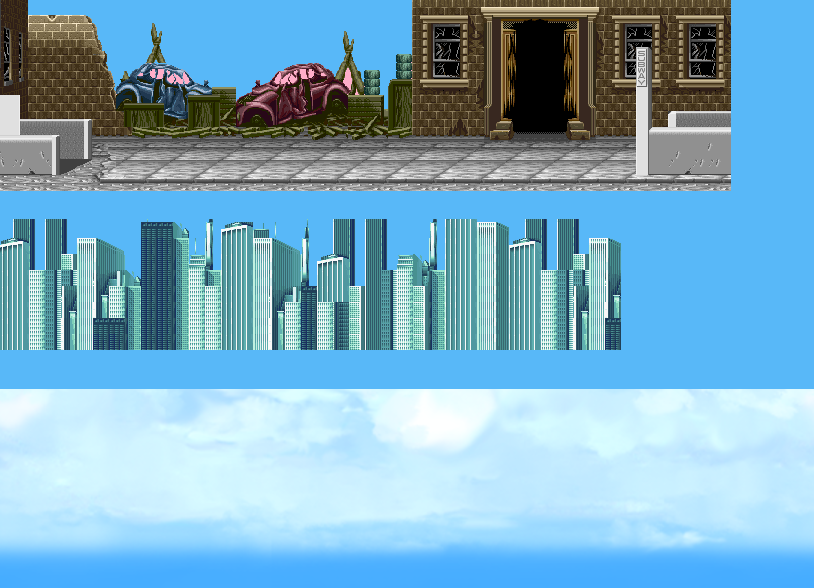
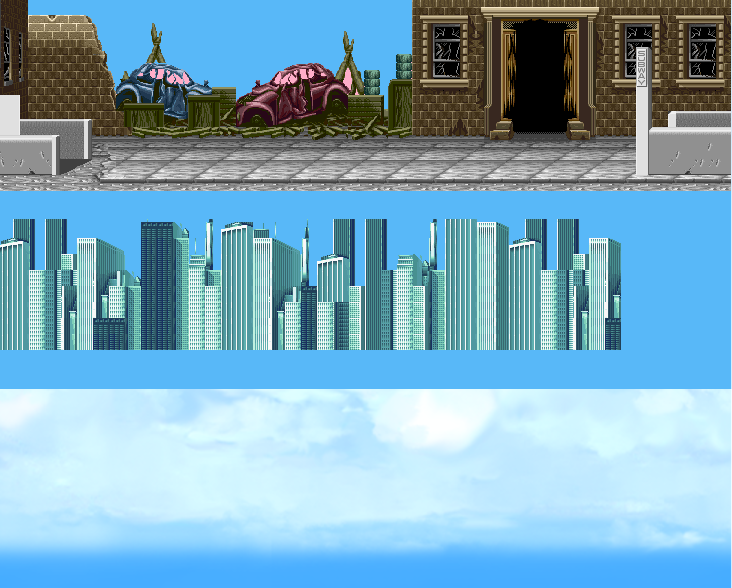
Se agrega nivel 2

diff --git a/niveles/Nivel.cpp b/niveles/Nivel.cpp
@@ -2,6 +2,7 @@
 // Created by felipe on 22/9/19.
 //
 
+#include <random>
 #include "Nivel.h"
 #include "../modelo/Posicion.h"
 #include "../graficos/Sprite.h"
@@ -70,12 +71,21 @@ Entidad *Nivel::generarJugador(Mapa *mapa) {
     return jugador;
 }
 
-int generarPosicion(int limiteDeFrontera) {
-    return rand() % limiteDeFrontera;
+int generarPosicionX(int frontera) {
+    random_device rd;
+    mt19937 mt(rd());
+    uniform_real_distribution<double> dist(200, frontera - 200);
+    return dist(mt);
+}
+
+int generarPosicionY(int frontera) {
+    random_device rd;
+    mt19937 mt(rd());
+    uniform_real_distribution<double> dist(20, frontera - 20);
+    return dist(mt);
 }
 
 void Nivel::generarNivel(const string &nivel, Mapa *mapa, Entidad *jugador) {
-    srand(time(0));
     SDL_Renderer *sdlRenderer = Locator::renderer();
     Entidad *escenario = generarEscenario(nivel, sdlRenderer, mapa);
 
@@ -97,29 +107,29 @@ Entidad * Nivel::generarEscenario(const string &nivel, SDL_Renderer *sdlRenderer
      * Leer configuracion de escenario.
      */
     Configuracion *config = Locator::configuracion();
-    string srcSprite = config->getValue("/" + nivel + "/escenario/sprite/src");
-    int profundidad = config->getIntValue("/" + nivel + "/escenario/profundidad");
-    int anchoNivel = config->getIntValue("/" + nivel + "/escenario/ancho");
-    int cantidadDeCapas = config->getIntValue("/" + nivel + "/escenario/sprite/capas/cantidad");
+    string srcSprite = config->getValue("/niveles/" + nivel + "/escenario/sprite/src");
+    int profundidad = config->getIntValue("/niveles/" + nivel + "/escenario/profundidad");
+    int anchoNivel = config->getIntValue("/niveles/" + nivel + "/escenario/ancho");
+    int cantidadDeCapas = config->getIntValue("/niveles/" + nivel + "/escenario/sprite/capas/cantidad");
 
     Entidad *escenario = mapa->crearEntidad();
     auto *posicion = new Posicion(0, profundidad, 0);
     auto *sprite = new Sprite(sdlRenderer, srcSprite);
-    auto *fisica = new FisicaDeEscenario();
+    auto *fisica = new FisicaDeEscenario(anchoNivel);
 
     vector<SDL_Texture *> sprites(cantidadDeCapas);
     vector<SDL_Rect> posicionesSprite(cantidadDeCapas);
     vector<float> distanciasAlFondo(cantidadDeCapas);
 
     for(int i = 0; i < cantidadDeCapas; i++){
-        int x = config->getIntValue("/" + nivel + "/escenario/sprite/capas/capa" + to_string(i) + "/x");
-        int y = config->getIntValue("/" + nivel + "/escenario/sprite/capas/capa" + to_string(i) + "/y");
-        int alto = config->getIntValue("/" + nivel + "/escenario/sprite/capas/capa" + to_string(i) + "/alto");
-        float distanciaAlFondo = config->getFloatValue("/" + nivel + "/escenario/sprite/capas/capa" + to_string(i) + "/distanciaAlFondo");
+        int x = config->getIntValue("/niveles/" + nivel + "/escenario/sprite/capas/capa" + to_string(i) + "/x");
+        int y = config->getIntValue("/niveles/" + nivel + "/escenario/sprite/capas/capa" + to_string(i) + "/y");
+        int alto = config->getIntValue("/niveles/" + nivel + "/escenario/sprite/capas/capa" + to_string(i) + "/alto");
+        float distanciaAlFondo = config->getFloatValue("/niveles/" + nivel + "/escenario/sprite/capas/capa" + to_string(i) + "/distanciaAlFondo");
 
-        sprites.push_back(sprite->getTexture());
-        posicionesSprite.push_back({x, y, 0, alto});
-        distanciasAlFondo.push_back(distanciaAlFondo);
+        sprites[i] = sprite->getTexture();
+        posicionesSprite[i] = {x, y, 0, alto};
+        distanciasAlFondo[i] = distanciaAlFondo;
     }
 
     float escalaHorizontal = (float)anchoNivel / (float)sprite->ancho();
@@ -135,10 +145,10 @@ Entidad * Nivel::generarEscenario(const string &nivel, SDL_Renderer *sdlRenderer
 
 void Nivel::generarCajas(const string &nivel, SDL_Renderer *sdlRenderer, Mapa *mapa, Posicion *posicionDeEscenario) {
     Configuracion *config = Locator::configuracion();
-    string srcSprite = config->getValue("/" + nivel + "/escenario/objetos/caja/sprite/src");
-    int cantidad = config->getIntValue("/" + nivel + "/escenario/objetos/caja/cantidad");
-    int anchoNivel = config->getIntValue("/" + nivel + "/escenario/ancho");
-    int profundidadNivel = config->getIntValue("/" + nivel + "/escenario/profundidad");
+    string srcSprite = config->getValue("/niveles/" + nivel + "/escenario/objetos/caja/sprite/src");
+    int cantidad = config->getIntValue("/niveles/" + nivel + "/escenario/objetos/caja/cantidad");
+    int anchoNivel = config->getIntValue("/niveles/" + nivel + "/escenario/ancho");
+    int profundidadNivel = config->getIntValue("/niveles/" + nivel + "/escenario/profundidad");
 
     auto *spriteCaja = new Sprite(sdlRenderer, srcSprite);
     auto *graficoDeCaja = new Grafico();
@@ -148,7 +158,7 @@ void Nivel::generarCajas(const string &nivel, SDL_Renderer *sdlRenderer, Mapa *m
         Locator::logger()->log(INFO, "Se inicia la construccion de la cajaRandom:" + to_string(i));
         Entidad *cajaRandom = mapa->crearEntidad();
 
-        auto *posicionCajaRandom = new Posicion(generarPosicion(anchoNivel), generarPosicion(profundidadNivel), 0);
+        auto *posicionCajaRandom = new Posicion(generarPosicionX(anchoNivel), generarPosicionY(profundidadNivel), 0);
         cajaRandom->agregarEstado("posicion", posicionCajaRandom);
         cajaRandom->agregarEstado("sprite", spriteCaja);
         cajaRandom->agregarEstado("animacion", animacionCaja);
@@ -159,10 +169,10 @@ void Nivel::generarCajas(const string &nivel, SDL_Renderer *sdlRenderer, Mapa *m
 
 void Nivel::generarCuchillos(const string &nivel, SDL_Renderer *sdlRenderer, Mapa *mapa, Posicion *posicionDeEscenario) {
     Configuracion *config = Locator::configuracion();
-    string srcSprite = config->getValue("/" + nivel + "/escenario/objetos/cuchillo/sprite/src");
-    int cantidad = config->getIntValue("/" + nivel + "/escenario/objetos/cuchillo/cantidad");
-    int anchoNivel = config->getIntValue("/" + nivel + "/escenario/ancho");
-    int profundidadNivel = config->getIntValue("/" + nivel + "/escenario/profundidad");
+    string srcSprite = config->getValue("/niveles/" + nivel + "/escenario/objetos/cuchillo/sprite/src");
+    int cantidad = config->getIntValue("/niveles/" + nivel + "/escenario/objetos/cuchillo/cantidad");
+    int anchoNivel = config->getIntValue("/niveles/" + nivel + "/escenario/ancho");
+    int profundidadNivel = config->getIntValue("/niveles/" + nivel + "/escenario/profundidad");
 
     auto *spriteCuchillo = new Sprite(sdlRenderer, srcSprite);
     auto *animacionCuchillo = FabricaDeAnimacionesDeCuchillo::standby();
@@ -173,7 +183,7 @@ void Nivel::generarCuchillos(const string &nivel, SDL_Renderer *sdlRenderer, Map
 
         Entidad *cuchilloRandom = mapa->crearEntidad();
 
-        auto *posicionCuchilloRandom = new Posicion(generarPosicion(anchoNivel), generarPosicion(profundidadNivel), 0);
+        auto *posicionCuchilloRandom = new Posicion(generarPosicionX(anchoNivel), generarPosicionY(profundidadNivel), 0);
         cuchilloRandom->agregarEstado("posicion", posicionCuchilloRandom);
         cuchilloRandom->agregarEstado("sprite", spriteCuchillo);
         cuchilloRandom->agregarEstado("animacion", animacionCuchillo);

diff --git a/graficos/Grafico.cpp b/graficos/Grafico.cpp
@@ -10,23 +10,23 @@
 #include "Sprite.h"
 #include "../modelo/Orientacion.h"
 
-SDL_Rect calcularPosicionEnPantalla2(Posicion posicionEnMapa, SDL_Rect posicionEnSprite, float esacalaDeAnimacion) {
+SDL_Rect calcularPosicionEnPantalla(Posicion posicionEnMapa, SDL_Rect posicionEnSprite, float esacalaDeAnimacion) {
     Configuracion *config = Locator::configuracion();
 
-    float escala = config->getFloatValue("/escala/mapeables") * esacalaDeAnimacion;
+    float escala = config->getFloatValue("/escala/entidades") * esacalaDeAnimacion;
 
-    const int screenX = posicionEnMapa.getX()
-                        - posicionEnSprite.w / 2 * escala;
+    const int screenX = int(round((float)posicionEnMapa.getX()
+                        - (float)posicionEnSprite.w / 2 * escala));
 
-    const int screenY = config->getIntValue("/resolucion/alto")
-                        + posicionEnMapa.getZ()
-                        - posicionEnMapa.getY()
-                        - posicionEnSprite.h * escala;
+    const int screenY = int(round((float)config->getIntValue("/resolucion/alto")
+                        + (float)posicionEnMapa.getZ()
+                        - (float)posicionEnMapa.getY()
+                        - (float)posicionEnSprite.h * escala));
 
     SDL_Rect posicionEnPantalla = {screenX,
                                    screenY,
-                                   int(posicionEnSprite.w * escala),
-                                   int(posicionEnSprite.h * escala)};
+                                   int((float)posicionEnSprite.w * escala),
+                                   int((float)posicionEnSprite.h * escala)};
 
     return posicionEnPantalla;
 }
@@ -41,7 +41,7 @@ void Grafico::actualizar(Entidad *entidad) {
 
     Posicion nuevaPosicion(posicion->getX() - posicionDeEscenarioX, posicion->getY(), posicion->getZ());
     SDL_Rect posicionEnSprite = animacion->actualizarYDevolverPosicion();
-    SDL_Rect posicionEnPantalla = calcularPosicionEnPantalla2(nuevaPosicion, posicionEnSprite, animacion->escala());
+    SDL_Rect posicionEnPantalla = calcularPosicionEnPantalla(nuevaPosicion, posicionEnSprite, animacion->escala());
 
     if ((orientacion != nullptr) && (!orientacion->adelante)) {
         SDL_RenderCopyEx(renderer, sprite->getTexture(), &posicionEnSprite, &posicionEnPantalla,

diff --git a/fisica/FisicaDeEscenario.cpp b/fisica/FisicaDeEscenario.cpp
@@ -6,17 +6,17 @@
 #include "../servicios/Locator.h"
 #include "../modelo/Posicion.h"
 
-void FisicaDeEscenario::actualizar(Entidad * entidad) {
+FisicaDeEscenario::FisicaDeEscenario(int largo) :
+        largo(largo) {}
+
+void FisicaDeEscenario::actualizar(Entidad *entidad) {
     int ancho = Locator::configuracion()->getIntValue("/resolucion/ancho");
     auto *posicionEscenario = entidad->getEstado<Posicion>("posicion");
     int xPersonaje = entidad->getEstado<Posicion>("posicion de jugador")->getX();
-//    int xPersonaje = fisicaDePersonaje->posicion().getX();
-//    // Mover el escenario.
+
     int xEscenario = posicionEscenario->getX();
-    if((xPersonaje - xEscenario < scrollIzquierdo) && (xPersonaje - scrollIzquierdo) > 0)
+    if ((xPersonaje - xEscenario < scrollIzquierdo) && (xPersonaje - scrollIzquierdo) > 0)
         posicionEscenario->setX(xPersonaje - scrollIzquierdo);
-    if((xPersonaje - xEscenario > ancho - scrollDerecho) && (5600 - xPersonaje) > scrollDerecho)
+    if ((xPersonaje - xEscenario > ancho - scrollDerecho) && (largo - xPersonaje) > scrollDerecho)
         posicionEscenario->setX(xPersonaje + scrollDerecho - ancho);
 }
-
-

diff --git a/graficos/GraficoDeEscenario.cpp b/graficos/GraficoDeEscenario.cpp
@@ -23,11 +23,11 @@ void GraficoDeEscenario::actualizar(Entidad *entidad) {
     int ancho = Locator::configuracion()->getIntValue("/resolucion/ancho");
     int posicion = entidad->getEstado<Posicion>("posicion")->getX();
 
-    for (int i = 0; i < sprites.size(); ++i) {
+    for (size_t i = 0; i < sprites.size(); ++i) {
         SDL_Texture *sprite = sprites[i];
         SDL_Rect posicionSprite = posicionesSprite[i];
-        posicionSprite.w = ancho / escalaHorizontal;
-        posicionSprite.x += round(posicion / escalaHorizontal * distanciasAlFondo[i]);
+        posicionSprite.w = int(round((float)ancho / escalaHorizontal));
+        posicionSprite.x = int(round((float)posicion / escalaHorizontal * distanciasAlFondo[i]));
         SDL_Rect posicionEscenario = {0, 0, ancho, alto};
 
         SDL_RenderCopy(renderer, sprite, &posicionSprite, &posicionEscenario);

diff --git a/fisica/FisicaDeEscenario.h b/fisica/FisicaDeEscenario.h
@@ -10,10 +10,12 @@
 class FisicaDeEscenario : public Comportamiento {
 
 private:
+    int largo;
     const int scrollDerecho = 400;
     const int scrollIzquierdo = 150;
 
 public:
+    explicit FisicaDeEscenario(int largo);
     void actualizar(Entidad *) override;
 };
 

diff --git a/main/main.cpp b/main/main.cpp
@@ -71,7 +71,7 @@ int main(int argc, char *args[]) {
 
     Entidad *jugador = Nivel::generarJugador(&mapa);
 
-    Nivel::generarNivel("nivel1", &mapa, jugador);
+    Nivel::generarNivel("nivel2", &mapa, jugador);
 
     juego.loop();
 
